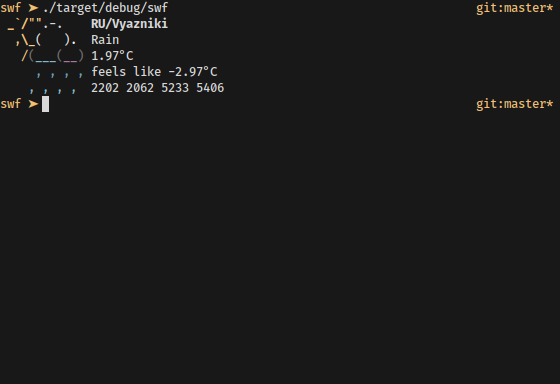
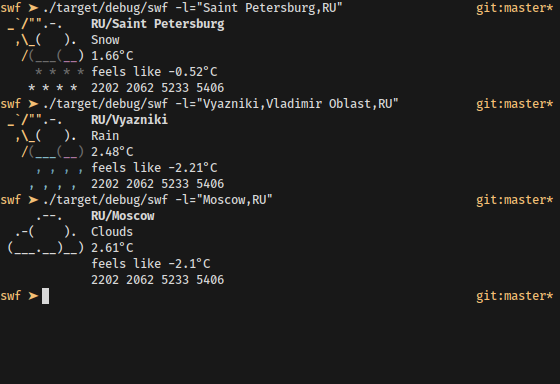
Добавление определения ASCII-арта

diff --git a/src/ascii.rs b/src/ascii.rs
@@ -2,6 +2,7 @@ use colored::Color;
 // use colored::Colorize;
 use colored::ColoredString;
 use colored::Colorize;
+use serde_json::Value;
 
 pub enum Ascii {
     Sunny,
@@ -9,7 +10,8 @@ pub enum Ascii {
     Rain,
     Thunder,
     Cloudy,
-    PartlyCloudy,
+    // PartlyCloudy,
+    Snow,
     Other,
 }
 
@@ -19,21 +21,19 @@ pub struct Art {
 }
 
 impl Ascii {
-    pub fn art(&self) -> [&str; 5] {
-        match self {
-            Self::Sunny => ["   \\   /", "    .-.", " - (   ) -", "    `_,", "   /   \\"],
-            Self::Night => ["", "", "", "", ""],
-            Self::Rain => [
-                " _`/\"\".-.",
-                "  ,\\_(   ).",
-                "   /(___(__)",
-                "     , , , ,",
-                "    , , , ,",
-            ],
-            Self::Thunder => ["", "", "", "", ""],
-            Self::Cloudy => ["", "", "", "", ""],
-            Self::PartlyCloudy => ["", "", "", "", ""],
-            Self::Other => ["", "", "", "", ""],
+    pub fn from_id(data: &Value) -> Self {
+        let id = data["weather"][0]["id"]
+            .to_string()
+            .parse::<usize>()
+            .unwrap();
+
+        match id {
+            200..=232 => Self::Thunder,
+            300..=321 | 500..=531 => Self::Rain,
+            600..=622 => Self::Snow,
+            800 => Self::Sunny,
+            801..=804 => Self::Cloudy,
+            _ => Self::Other,
         }
     }
 
@@ -89,6 +89,41 @@ impl Ascii {
                 ),
                 format!("     {}", ", , , ,".blue()),
                 format!("    {} ", ", , , ,".bright_blue()),
+            ],
+            Self::Snow => [
+                format!(
+                    " {}{}{}{}{}.-.   ",
+                    "_".yellow().bold(),
+                    "`".yellow(),
+                    "/".yellow().bold(),
+                    "\"".yellow(),
+                    "\"".bright_yellow(),
+                ),
+                format!(
+                    "  {}{}{}(   ){} ",
+                    ",".yellow(),
+                    "\\".yellow().bold(),
+                    "_".bright_yellow(),
+                    ".".bright_white()
+                ),
+                format!(
+                    "   {}{}{}{}{}{}",
+                    "/".yellow(),
+                    "(".bright_black(),
+                    "___".bright_black(),
+                    "(".bright_black(),
+                    "__".magenta(),
+                    ")".white(),
+                ),
+                format!("     {}", "* * * *".bright_black()),
+                format!("    {} ", "* * * *".white()),
+            ],
+            Self::Cloudy => [
+                format!("            "),
+                format!("     .--.   "),
+                format!("  .-(    ). "),
+                format!(" (___.__)__)"),
+                format!("            "),
             ],
             _ => [
                 format!(""),

diff --git a/src/formatter.rs b/src/formatter.rs
@@ -14,15 +14,6 @@ pub enum FmtMode {
     Pressure,
 }
 
-pub enum WeatherType {
-    Thunderstorm,
-    Drizzle,
-    Rain,
-    Snow,
-    Clear,
-    Clouds,
-}
-
 impl FmtMode {
     fn location(&self, data: &Value) -> String {
         format!(
@@ -68,7 +59,7 @@ impl FmtMode {
     pub fn print(&self, data: &Value, units: Units) {
         match self {
             Self::All => {
-                let art = Ascii::Rain.art1();
+                let art = Ascii::from_id(data).art1();
 
                 for i in art.iter().enumerate() {
                     println!(
